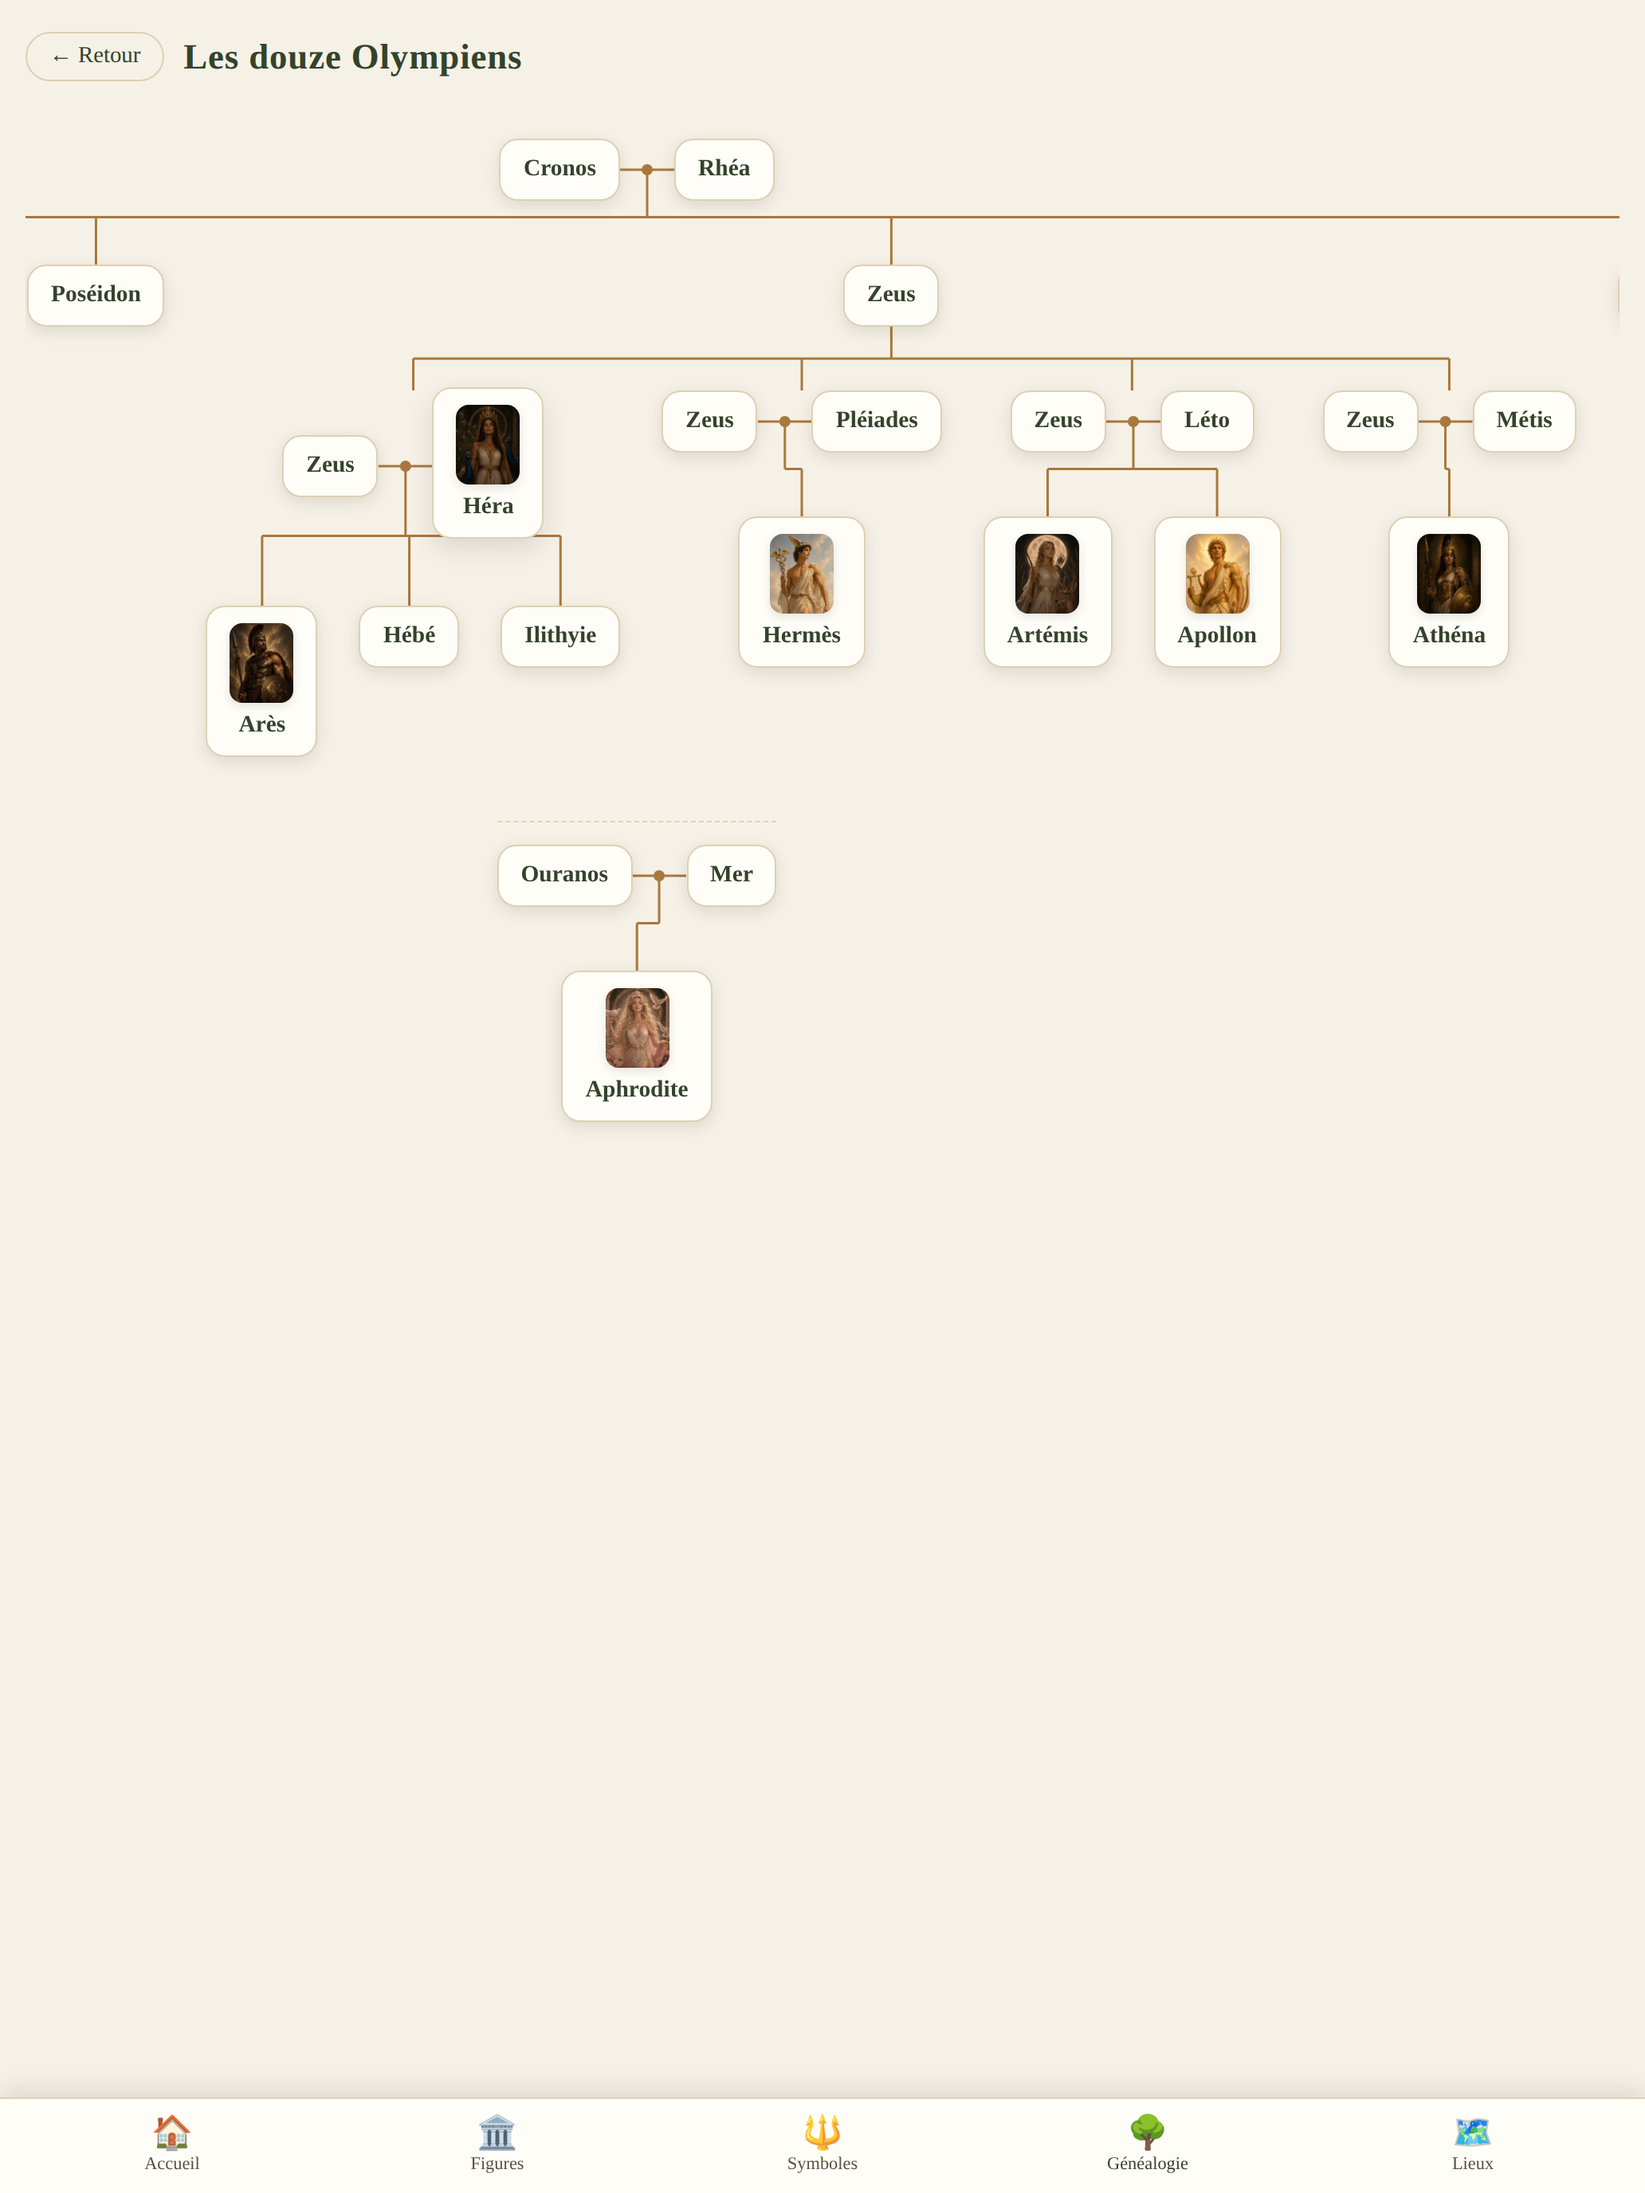
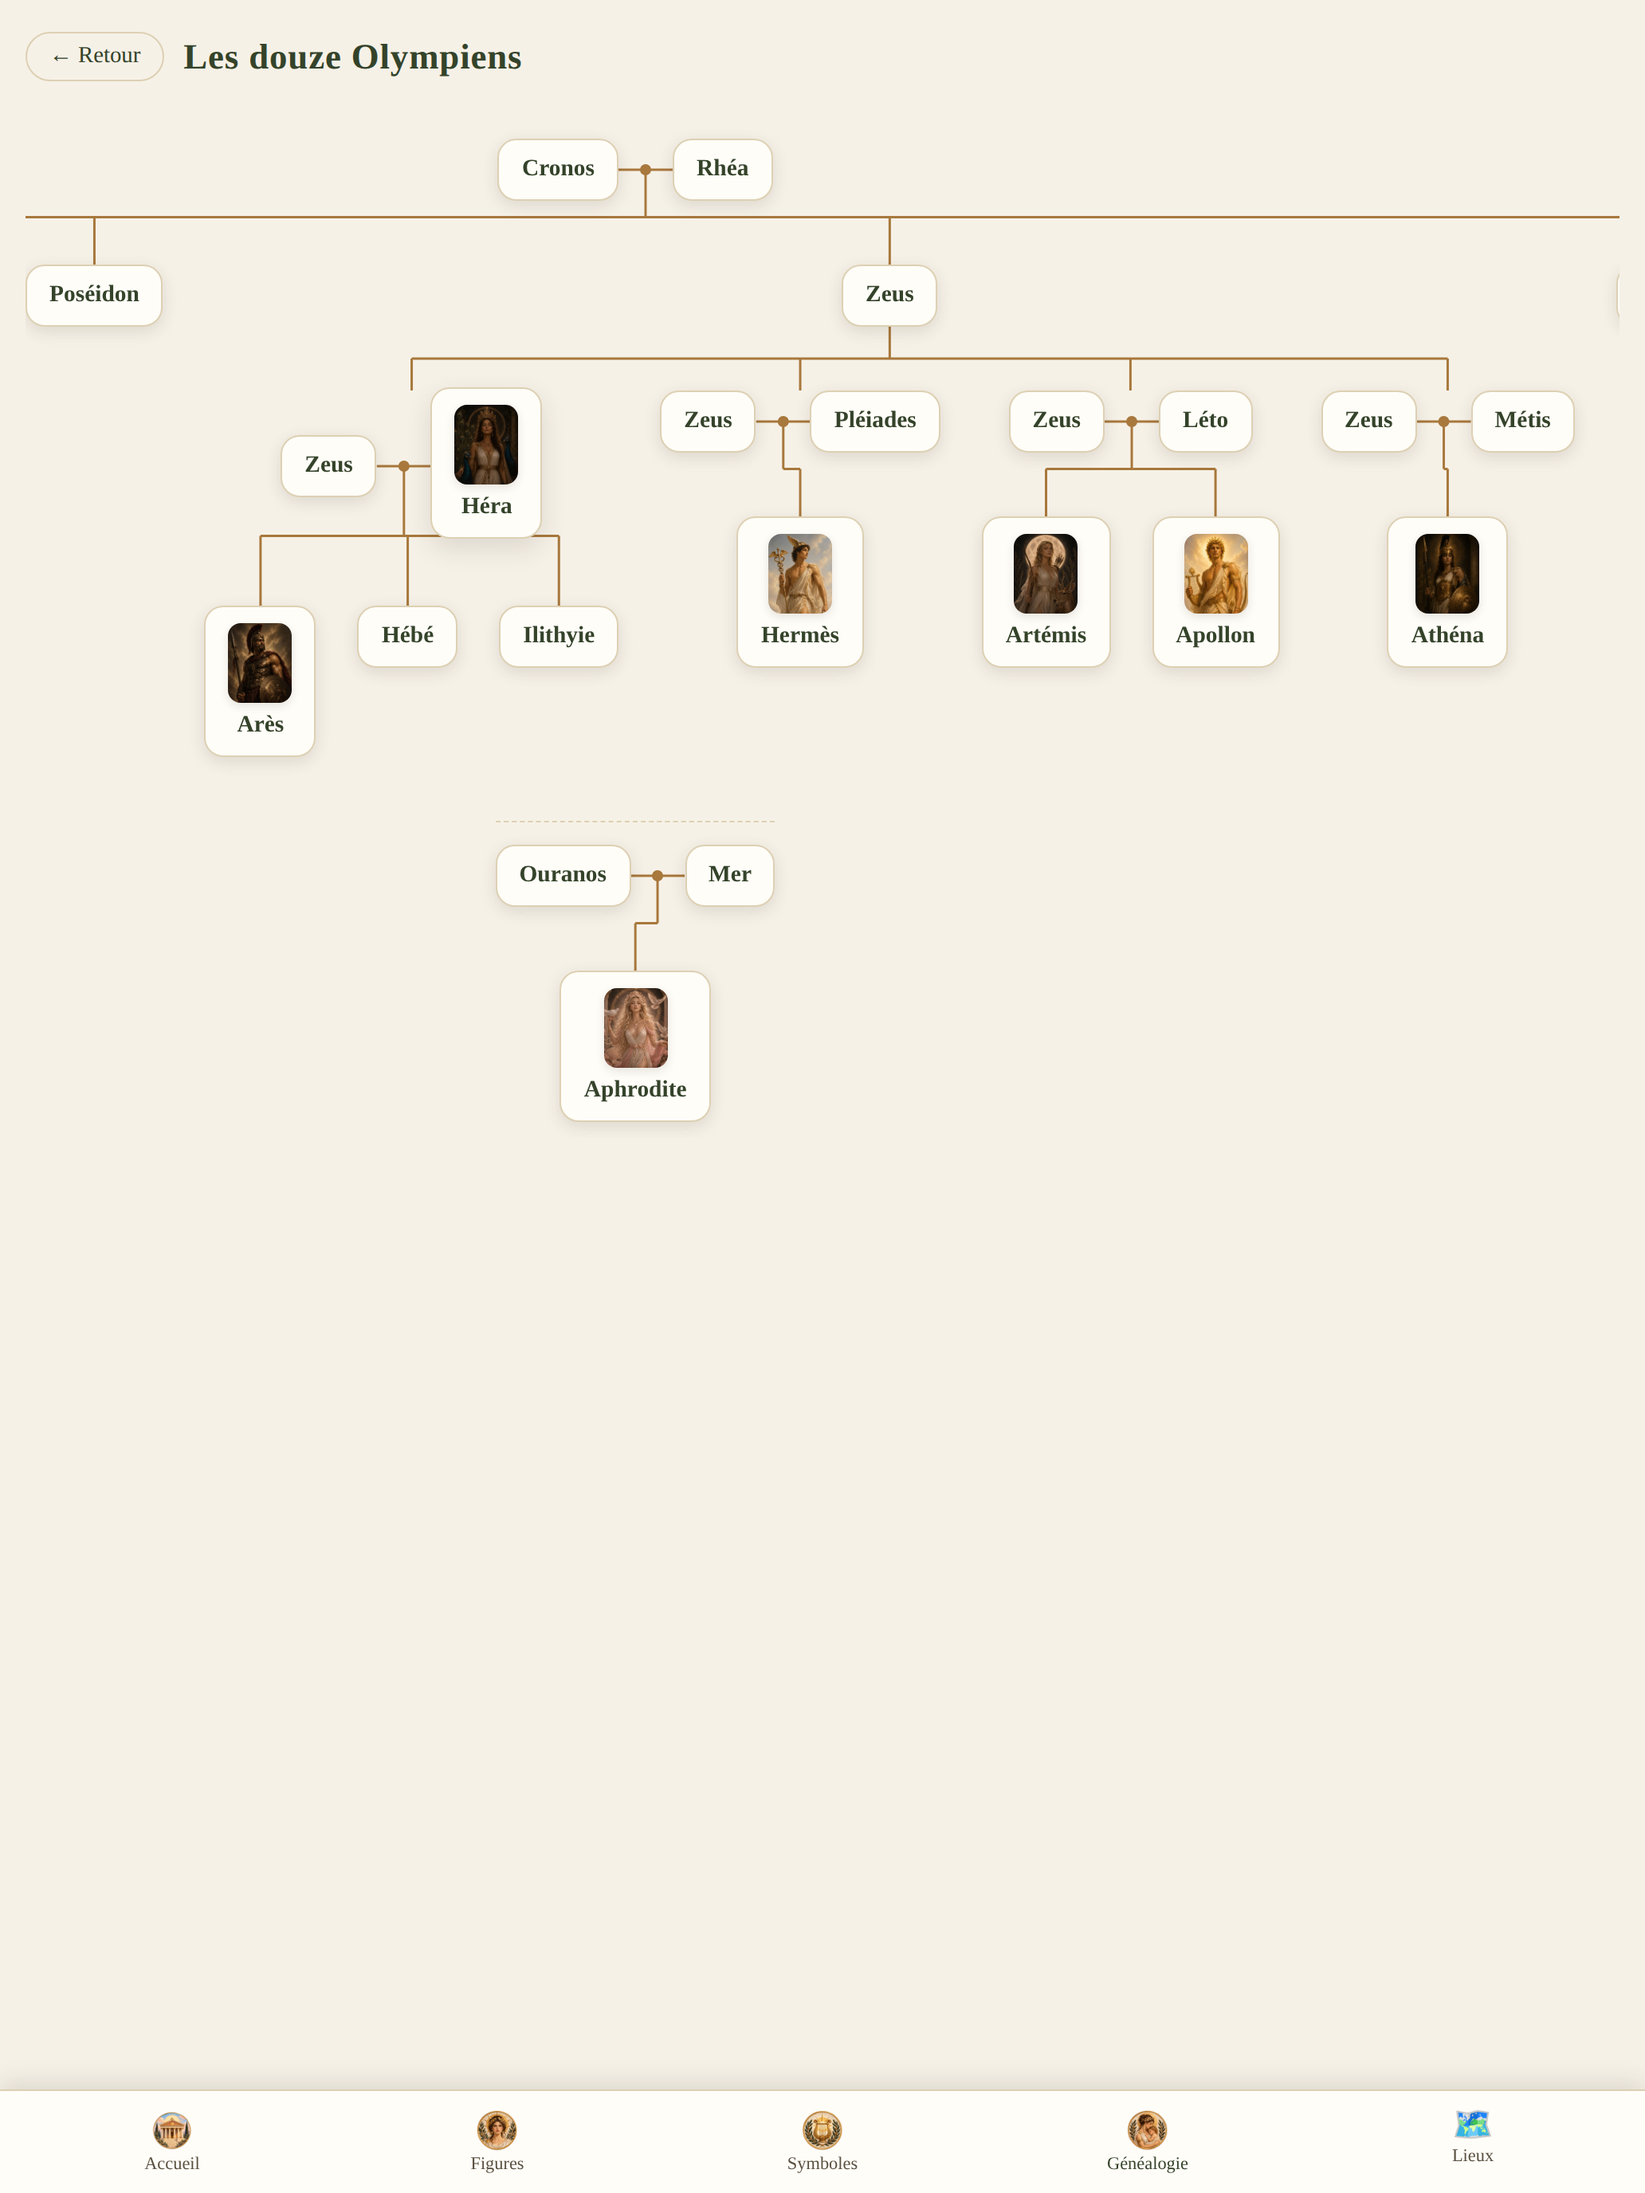
Identité visuelle : illustrations dédiées pour l'accueil et le menu
Remplace les emoji par des illustrations générées (fournies et
retouchées pour l'intégration : rognage des marges, détourage
circulaire, export WebP compressé) :

- assets/hero-olympians.jpg : fresque des douze Olympiens (légendée en
  français dans l'image), remplace l'éclair (⚡) au-dessus du titre
  "Panthéon" sur l'écran d'accueil.
- assets/badge-figures-portrait.webp, badge-symbols-lyre.webp,
  badge-genealogy-mother.webp, badge-home-temple.webp : quatre badges
  circulaires détourés (fond transparent), ~10x plus légers qu'un PNG
  équivalent. Remplacent respectivement les emoji 🏛/🔱/🌳/🏠 à la fois
  sur les tuiles d'accueil et dans le menu du bas.
- "Lieux mythologiques" volontairement inchangé (ni tuile ni onglet) :
  aucune illustration fournie pour cet écran, garde son emoji 🗺.

Les 5 fichiers (~420 Ko au total) sont précachés par le service
worker. Captures d'écran App Store reprises pour refléter la nouvelle
page d'accueil.

Tests : nouveau smoke_pantheon_illustrations.js (14 vérifications),
deux assertions obsolètes corrigées dans smoke_pantheon_v2.js
(cherchaient encore l'emoji 🏠/🏛 littéral dans le menu du bas). Suite
complète des quinze scripts précédents toujours au vert.
service-worker.js : pantheon-v13 -> v14.

diff --git a/app.js b/app.js
@@ -1211,24 +1211,24 @@ function figureOfTheDayHTML(){
 function renderHome(){
   return `
     <header class="hero">
-      <div class="hero-mark">⚡</div>
+      <img class="hero-banner" src="assets/hero-olympians.jpg" alt="Les douze dieux de l'Olympe : Hestia, Déméter, Héra, Zeus, Poséidon, Apollon, Artémis, Athéna, Arès, Aphrodite, Héphaïstos et Hermès">
       <h1>Panthéon</h1>
       <p class="tagline">Apprendre la mythologie grecque — dieux, héros et symboles</p>
     </header>
     ${figureOfTheDayHTML()}
     <div class="tiles">
       <button class="tile" data-nav="figures">
-        <span class="tile-icon">🏛</span>
+        <img class="tile-badge" src="assets/badge-figures-portrait.webp" alt="">
         <span class="tile-title">Figures mythologiques</span>
         <span class="tile-count">${FIGURE_ENTRIES.length} fiches</span>
       </button>
       <button class="tile" data-nav="symbols">
-        <span class="tile-icon">🔱</span>
+        <img class="tile-badge" src="assets/badge-symbols-lyre.webp" alt="">
         <span class="tile-title">Bibliothèque symbolique</span>
         <span class="tile-count">${SYMBOL_ENTRIES.length} symboles</span>
       </button>
       <button class="tile" data-nav="genealogyHome">
-        <span class="tile-icon">🌳</span>
+        <img class="tile-badge" src="assets/badge-genealogy-mother.webp" alt="">
         <span class="tile-title">Généalogie des dieux</span>
         <span class="tile-count">${GENEALOGY_FIGURE_COUNT} figures reliées</span>
       </button>
@@ -2105,11 +2105,15 @@ function renderPlaceDetail(id){
 
 /* ===================== RENDU : MENU FIXE ===================== */
 
+// Les icônes des quatre premiers onglets sont des badges illustrés (voir assets/badge-*.webp)
+// plutôt que des emoji — insérés tels quels dans renderBottomNav(), qui ne les échappe pas
+// (elles ne viennent jamais d'une saisie utilisateur). « Lieux » garde son emoji d'origine,
+// aucune illustration n'ayant été demandée pour cet onglet.
 const TABS = [
-  { type: "home", icon: "🏠", label: "Accueil" },
-  { type: "figures", icon: "🏛", label: "Figures" },
-  { type: "symbols", icon: "🔱", label: "Symboles" },
-  { type: "genealogyHome", icon: "🌳", label: "Généalogie" },
+  { type: "home", icon: '<img class="nav-badge" src="assets/badge-home-temple.webp" alt="">', label: "Accueil" },
+  { type: "figures", icon: '<img class="nav-badge" src="assets/badge-figures-portrait.webp" alt="">', label: "Figures" },
+  { type: "symbols", icon: '<img class="nav-badge" src="assets/badge-symbols-lyre.webp" alt="">', label: "Symboles" },
+  { type: "genealogyHome", icon: '<img class="nav-badge" src="assets/badge-genealogy-mother.webp" alt="">', label: "Généalogie" },
   { type: "places", icon: "🗺", label: "Lieux" },
 ];
 

diff --git a/styles.css b/styles.css
@@ -49,10 +49,13 @@ h1, h2, h3{
   text-align: center;
   padding: 40px 0 28px;
 }
-.hero-mark{
-  font-size: 2.2rem;
-  color: var(--bronze);
-  margin-bottom: 8px;
+.hero-banner{
+  display: block;
+  width: 100%;
+  max-width: 480px;
+  margin: 0 auto 14px;
+  border-radius: 14px;
+  box-shadow: 0 6px 20px var(--shadow);
 }
 .hero h1{
   font-size: 2.6rem;
@@ -137,6 +140,7 @@ h1, h2, h3{
 }
 .tile:hover{ transform: translateY(-2px); box-shadow: 0 8px 20px var(--shadow); }
 .tile-icon{ font-size: 2rem; }
+.tile-badge{ width: 52px; height: 52px; border-radius: 50%; object-fit: cover; }
 .tile-title{ font-family: "Cinzel", Georgia, serif; font-size: 1.1rem; color: var(--laurel-deep); }
 .tile-count{ font-size: 0.85rem; color: var(--bronze); font-weight: 600; }
 
@@ -628,6 +632,7 @@ details.symbol-more p, details.symbol-more ul{ margin-top: 10px; }
 .nav-tab:hover{ background: var(--marble-deep); }
 .nav-tab.active{ color: var(--laurel-deep); }
 .nav-tab-icon{ font-size: 1.3rem; line-height: 1; }
+.nav-badge{ width: 26px; height: 26px; border-radius: 50%; object-fit: cover; display: block; }
 .nav-tab-label{ font-size: 0.7rem; }
 
 /* ----- Lieux mythologiques & carte ----- */

diff --git a/service-worker.js b/service-worker.js
@@ -1,5 +1,5 @@
-const CACHE="pantheon-v13";
-const ASSETS=["./","./index.html","./styles.css","./app.js","./manifest.json","./icon.svg","./icon-192.png","./icon-512.png","./icon-180.png","./politique-confidentialite.html"];
+const CACHE="pantheon-v14";
+const ASSETS=["./","./index.html","./styles.css","./app.js","./manifest.json","./icon.svg","./icon-192.png","./icon-512.png","./icon-180.png","./politique-confidentialite.html","./assets/hero-olympians.jpg","./assets/badge-home-temple.webp","./assets/badge-figures-portrait.webp","./assets/badge-symbols-lyre.webp","./assets/badge-genealogy-mother.webp"];
 
 self.addEventListener("install",event=>{
   event.waitUntil(

diff --git a/README.md b/README.md
@@ -703,3 +703,36 @@ Tests : nouveau `smoke_pantheon_appstore_prep.js` (21 vérifications), plus deux
 ajoutées à `smoke_pantheon_backend.js` (purge protégée par secret) et `smoke_pantheon_premium.js`
 (vercel.json à jour) — 74 vérifications au total pour ce round, en plus des quatorze suites
 précédentes, toutes au vert. `service-worker.js` : `pantheon-v12` → `pantheon-v13`.
+
+## Identité visuelle — illustrations dédiées (accueil et menu du bas)
+
+Remplace les emoji de l'écran d'accueil et du menu du bas par des illustrations générées et
+retravaillées pour l'occasion (fournies par l'utilisatrice, retouchées pour l'intégration) :
+
+- **Bannière d'accueil** (`assets/hero-olympians.jpg`) : remplace le petit éclair (⚡) au-dessus
+  du titre « Panthéon » par une fresque des douze Olympiens, légendée en français directement
+  dans l'image (Hestia, Déméter, Héra, Zeus, Poséidon, Apollon, Artémis, Athéna, Arès,
+  Aphrodite, Héphaïstos, Hermès). Rognée de ses marges blanches d'origine pour remplir
+  pleinement son cadre.
+- **Trois badges de tuile et d'onglet** (`assets/badge-*.webp`, détourés en cercle, fond
+  transparent) : un portrait pour « Figures mythologiques », une lyre pour « Bibliothèque
+  symbolique », une mère et son enfant pour « Généalogie des dieux ». Chaque badge remplace à la
+  fois l'emoji de la tuile d'accueil et celui de l'onglet correspondant dans le menu du bas.
+- **Badge « Accueil »** (`badge-home-temple.webp`, un temple grec) remplace l'emoji 🏠 du menu
+  du bas.
+- **« Lieux mythologiques » n'a volontairement pas été touché** (ni tuile ni onglet) : aucune
+  illustration n'a été fournie pour cet écran, il garde son emoji 🗺.
+
+Les quatre badges sont exportés en WebP avec canal alpha (fond transparent, cercle détouré au
+plus près du cadre doré déjà présent dans l'image) — environ 10 fois plus léger qu'un PNG
+équivalent pour un rendu identique. La bannière, elle, n'a pas besoin de transparence et reste en
+JPEG. Poids total des cinq fichiers : ~420 Ko. Les cinq sont précachés par le service worker
+(disponibles hors-ligne dès la première visite), et les captures d'écran App Store ont été
+reprises pour refléter la nouvelle page d'accueil.
+
+Testé par un script dédié (`smoke_pantheon_illustrations.js`, 14 vérifications : présence et
+poids raisonnable des fichiers, références correctes dans `app.js`, absence de tout résidu de
+l'ancien `hero-mark`, rendu correct de la bannière et des quatre badges, tuile et onglet
+« Lieux » inchangés, précache du service worker) + deux assertions obsolètes corrigées dans
+`smoke_pantheon_v2.js` (l'ancien test cherchait l'emoji 🏠/🏛 littéral dans le menu du bas).
+`service-worker.js` : `pantheon-v13` → `pantheon-v14`.
